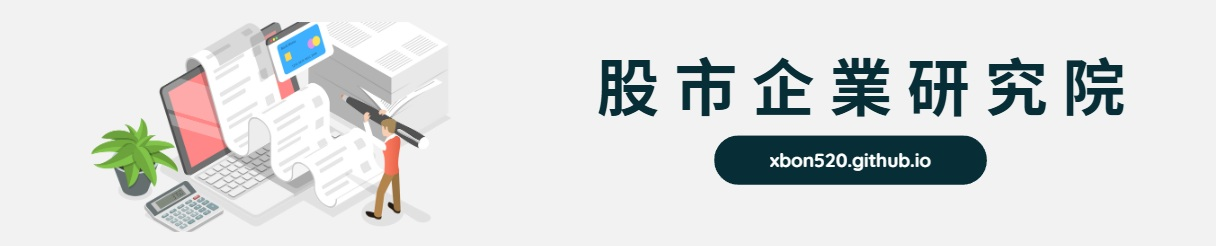
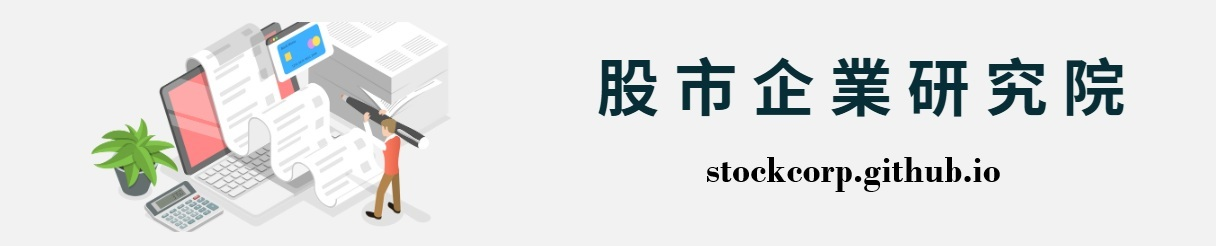
Add files via upload

Changed region(s): [[0.5625, 0.5407, 0.8438, 0.7967]]

diff --git a/index.html b/index.html
@@ -13,7 +13,7 @@
     <meta charset="UTF-8">
     <meta name="viewport" content="width=device-width, initial-scale=1.0">
     <meta name="description" content="免費台灣股票利潤計算機，支援券商手續費計算，快速計算您的股票交易利潤。">
-    <meta name="image" content="xbon520.github.io/img/small.jpg">
+    <meta name="image" content="stockcorp.github.io/img/small.jpg">
     <meta name="keywords" content="股票利潤計算機, 台股計算, 券商手續費, 台灣股市, 吉米理財學堂">
     <meta name="author" content="股市企業研究院">
     <meta name="robots" content="index, follow">
@@ -22,7 +22,7 @@
     <!-- Open Graph Meta Tags for Social Media -->
     <meta property="og:title" content="股市企業研究院 - 台灣股票利潤計算機 - 吉米理財學堂">
     <meta property="og:description" content="快速計算台股交易利潤，支援手續費折扣計算。">
-    <meta property="og:url" content="xbon520.github.io">
+    <meta property="og:url" content="stockcorp.github.io">
     <meta property="og:type" content="website">
     <!-- Structured Data (JSON-LD) for SEO -->
     <script type="application/ld+json">
@@ -30,7 +30,7 @@
         "@context": "https://schema.org",
         "@type": "WebApplication",
         "name": "台灣股票利潤計算機",
-        "url": "xbon520.github.io",
+        "url": "stockcorp.github.io",
         "description": "一款免費的台灣股票利潤計算工具，支援券商手續費折扣計算。",
         "publisher": {
             "@type": "Organization",
@@ -356,7 +356,7 @@
             <!-- 導航按鈕與標題 -->
             <div class="header-section">
                 <div class="nav-buttons">
-                    <a href="xbon520.github.io" class="nav-button">
+                    <a href="stockcorp.github.io" class="nav-button">
                         <img src="/img/home_button.jpg" alt="首頁圖標">
                         <span>首頁</span>
                     </a>
@@ -371,7 +371,7 @@
                 </div>
                 <div class="site-title">
                     <img src="/img/icon1.jpg" alt="股市企業研究院圖標" style="vertical-align: middle; margin-right: 10px; height: 28px; width: auto;">
-                    <h1>xbon520.github.io</h1>
+                    <h1>stockcorp.github.io</h1>
                 </div>
             </div>
 
@@ -685,7 +685,7 @@
         function shareToLine() {
             captureFullResult(canvas => {
                 const imageData = canvas.toDataURL("image/png");
-                const url = "xbon520.github.io";
+                const url = "stockcorp.github.io";
                 const text = `我的股票利潤計算結果圖表，請查看：${url}`;
                 const encodedText = encodeURIComponent(text);
                 const lineUrl = `https://line.me/R/msg/text/?${encodedText}`;
@@ -702,7 +702,7 @@
         function shareToFacebook() {
             captureFullResult(canvas => {
                 const imageData = canvas.toDataURL("image/png");
-                const url = "xbon520.github.io";
+                const url = "stockcorp.github.io";
                 const encodedUrl = encodeURIComponent(url);
                 const facebookUrl = `https://www.facebook.com/sharer/sharer.php?u=${encodedUrl}`;
                 window.open(facebookUrl, '_blank');
